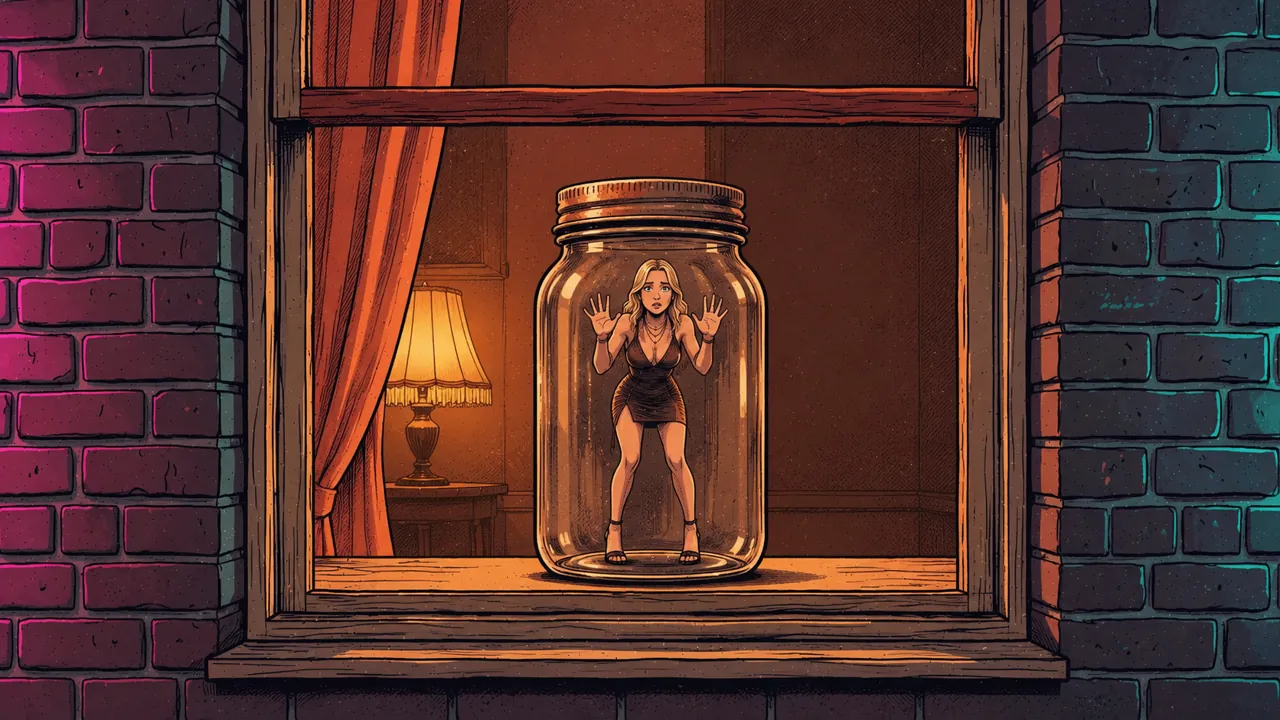
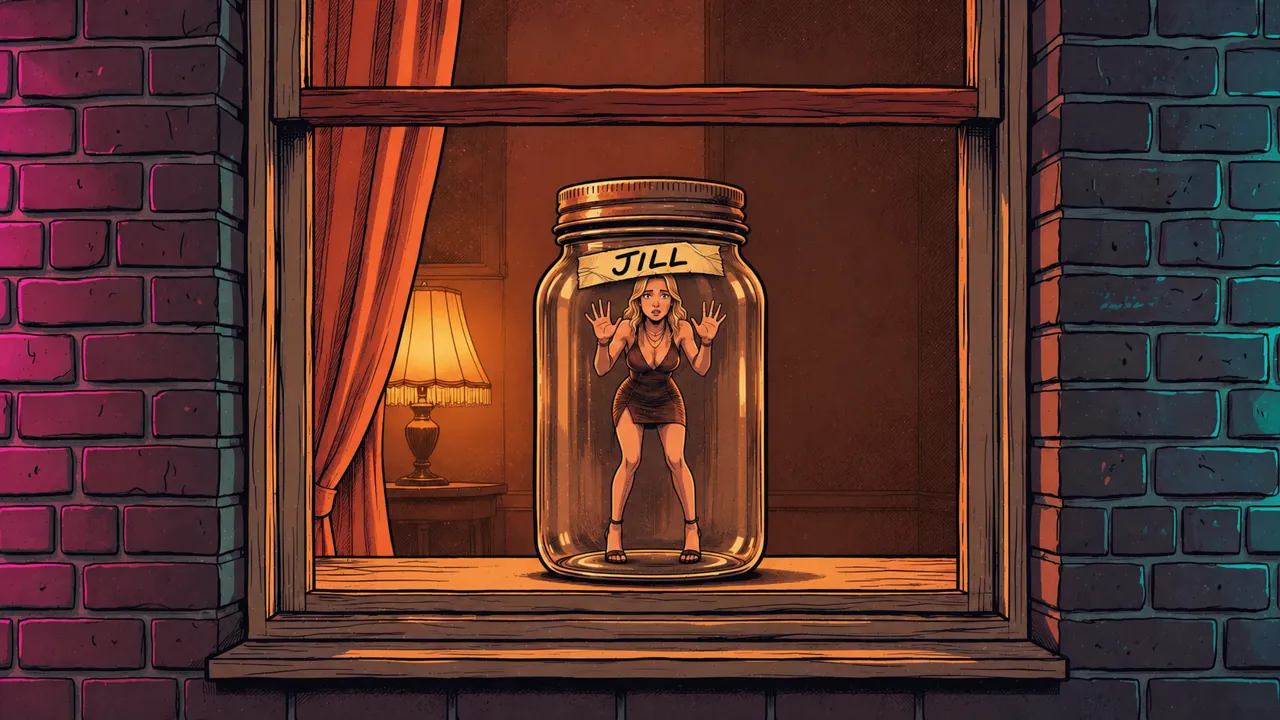
Binoculars: the jar across the street is labeled JILL
Claude-Session: https://claude.ai/code/session_011gssdMsenVXumrh9a32rRB

diff --git a/index.html b/index.html
@@ -3223,7 +3223,7 @@ body.jx-zoom .binoc{opacity:0!important;pointer-events:none!important}
     {k:"cat",x:1215,y:561,w:57,h:117,img:"img/binoc/w2.webp",cap:"Mrs. Delgado and Meatball, 4F. Every night at 11."},
     {k:"dance",x:652,y:678,w:58,h:122,img:"img/binoc/w3.webp",cap:"Slow dance, spaghetti on the stove."},
     {k:"pizza",x:1217,y:757,w:61,h:133,img:"img/binoc/w4.webp",cap:"Caught. 2 a.m. slice."},
-    {k:"jar",x:908,y:300,w:57,h:115,img:"img/binoc/w5.webp",cap:"Wait… another jar? Someone’s trapped over there too."}
+    {k:"jar",x:908,y:300,w:57,h:115,img:"img/binoc/w5.webp?v=2",cap:"JILL? Someone’s trapped over there too."}
   ];
   const DECOY=[{x:240,y:475,w:57,h:115},{x:20,y:475,w:55,h:115},{x:1085,y:760,w:60,h:130},{x:652,y:878,w:58,h:122}];
   const pan=$("bx-pan"), lens=$("bx-lens"), scene=$("bx-scene");
